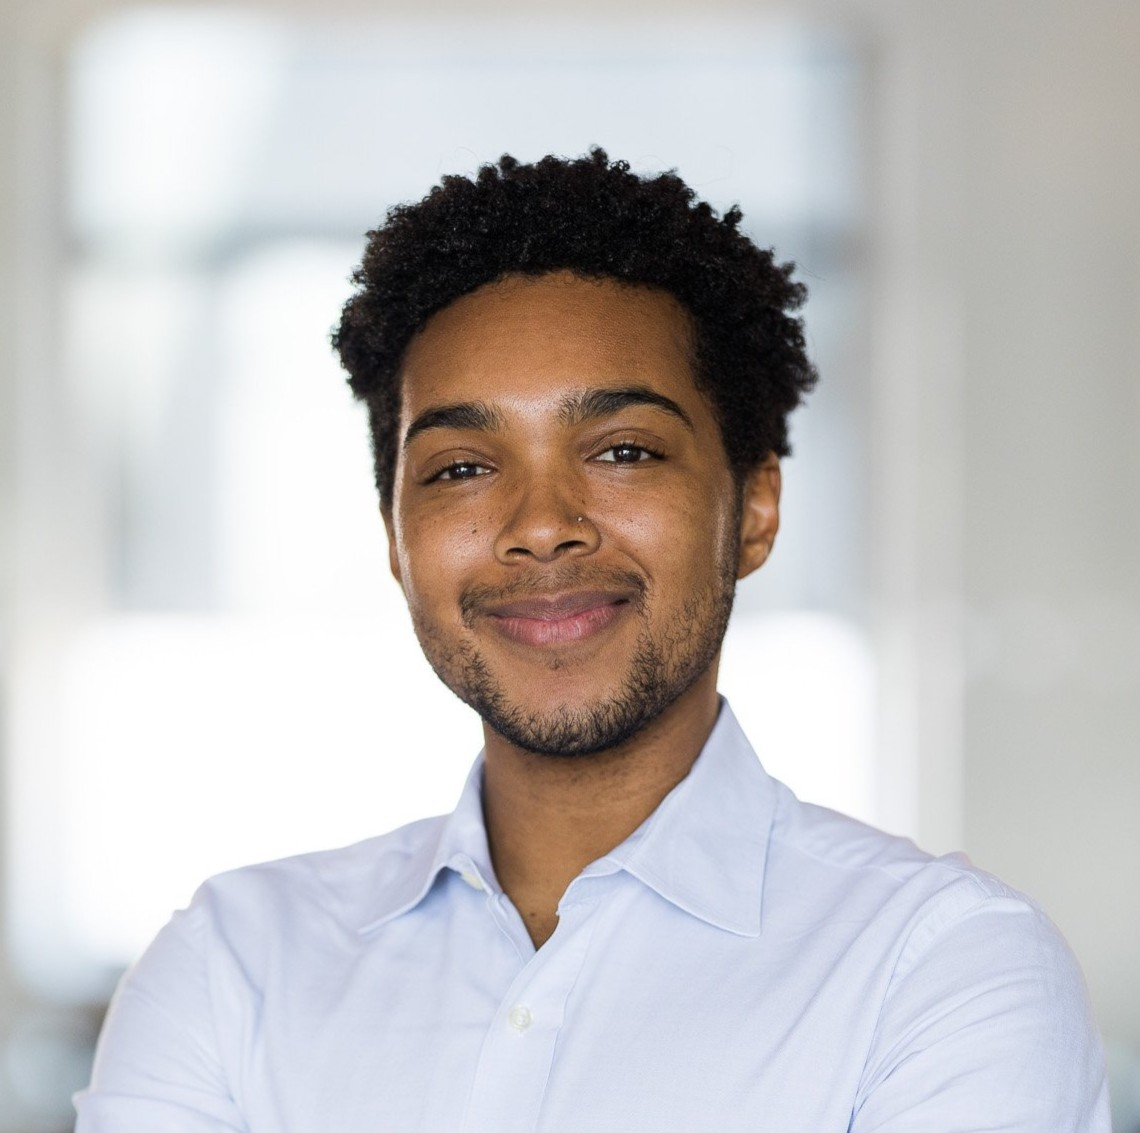
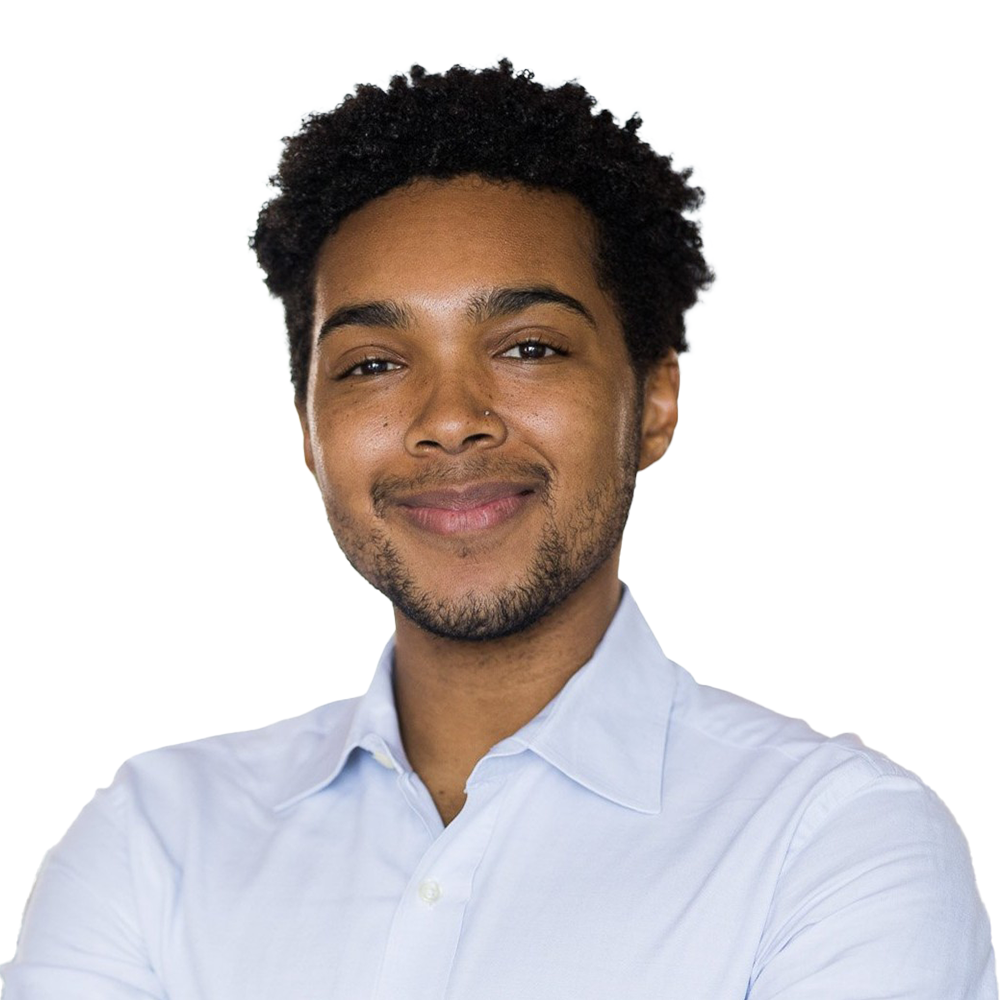
Dup7
team page changes

diff --git a/team.html b/team.html
@@ -95,7 +95,7 @@
 
         <div class="team-card">
             <section class="team-member" tabindex="0">
-                <img src="img\team\female.jpg" alt="Photo of Yuhansa Hewagamage" class="thumb" />
+                <img src="img\team\female.png" alt="Photo of Yuhansa Hewagamage" class="thumb" />
                 <h4>Yuhansa Hewagamage</h4>
                 <div class="member-details">
                     <p><strong>Role:</strong> Student 4</p>
